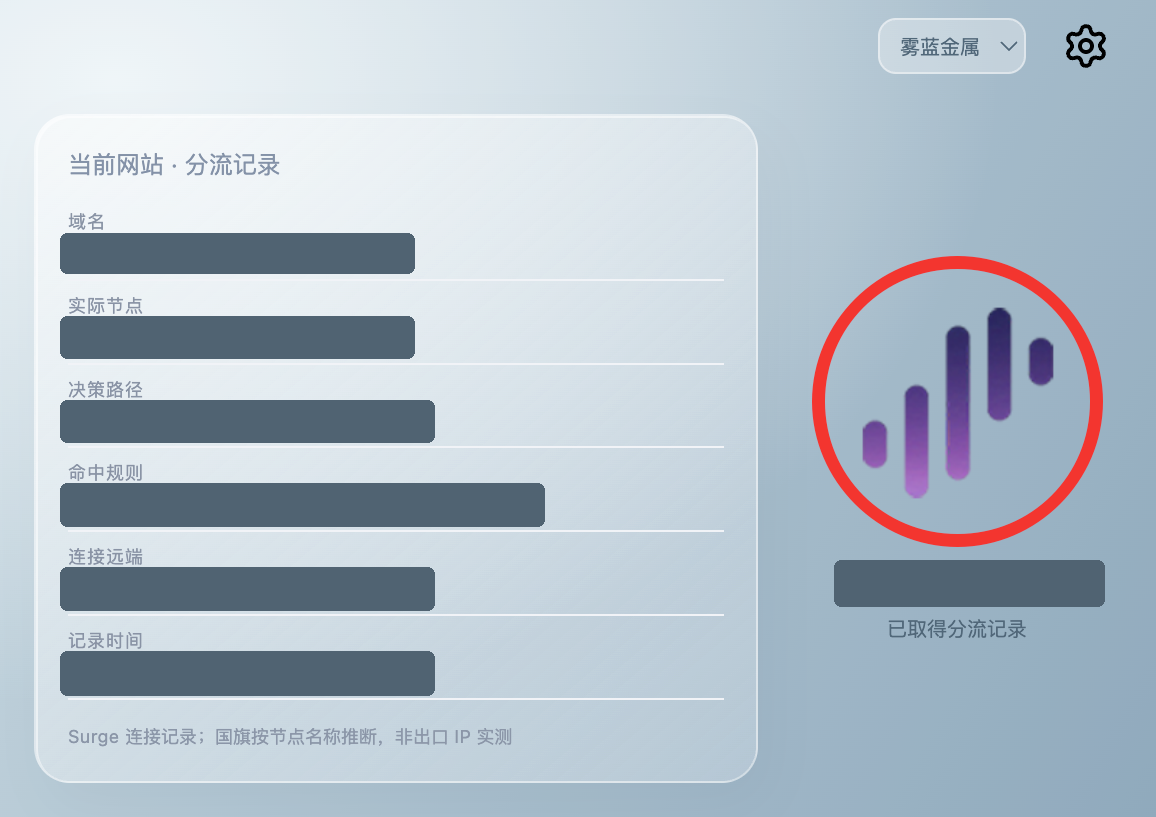
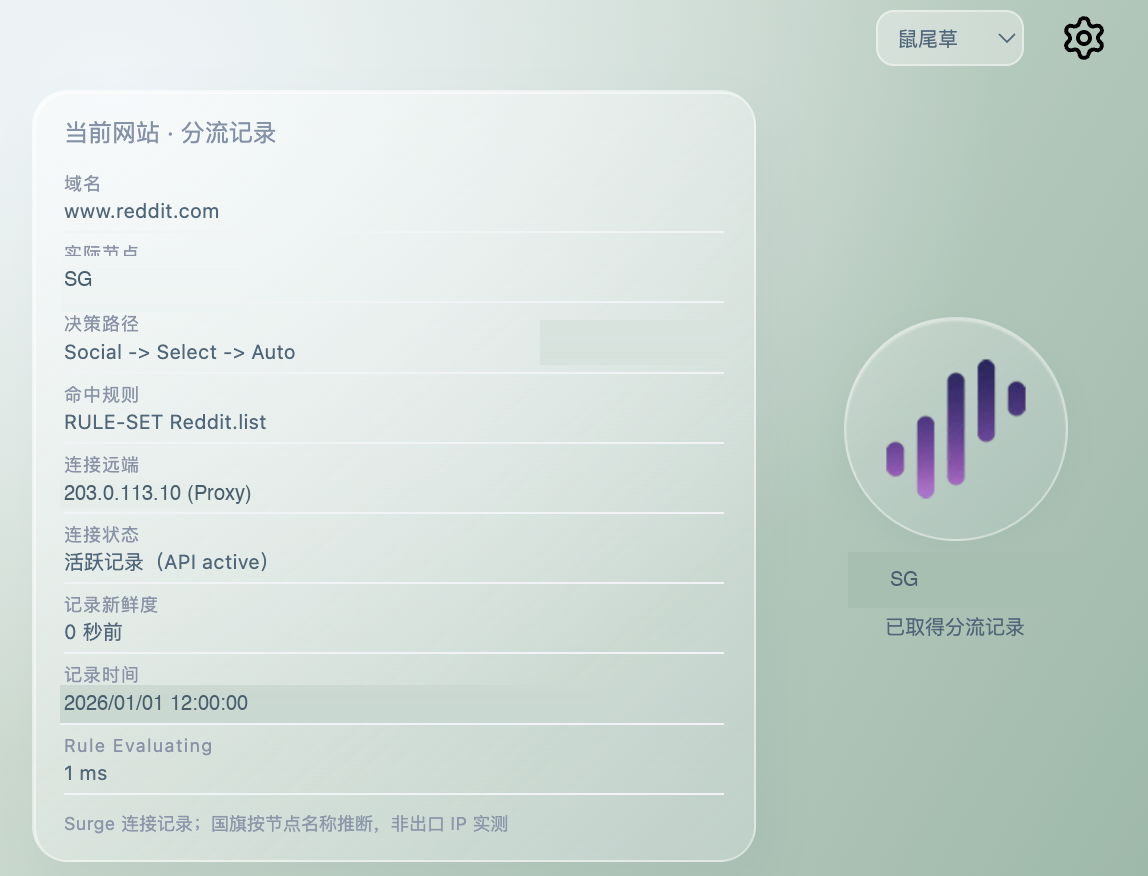
docs: replace opaque masks with sanitized example values

diff --git a/README.md b/README.md
@@ -17,7 +17,7 @@
 
 ![RouteLens 分流记录面板（隐私已遮盖）](docs/images/route-panel-redacted.png)
 
-实际使用截图，来自界面迭代过程；红圈为当时的界面讨论标注，外观与当前版本可能略有差异。域名、节点名称、决策路径、规则、IP、时间及右侧重复节点信息均已使用不透明色块遮盖。原始截图未上传。
+基于实际使用截图脱敏：节点仅保留地区代码 SG，时间与连接远端分别替换为示例时间和文档保留地址。其余界面内容保留；这些替换值仅作展示，不代表真实测量。原始截图及修改批注未上传。
 
 ## 安装
 
